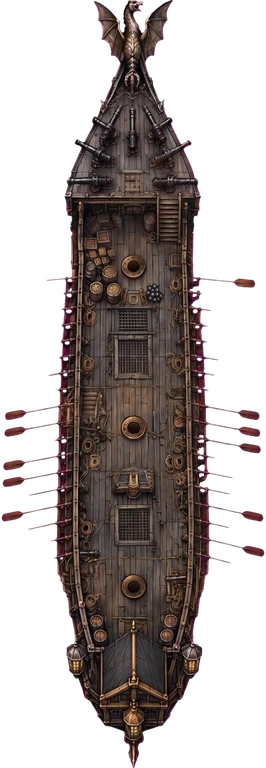
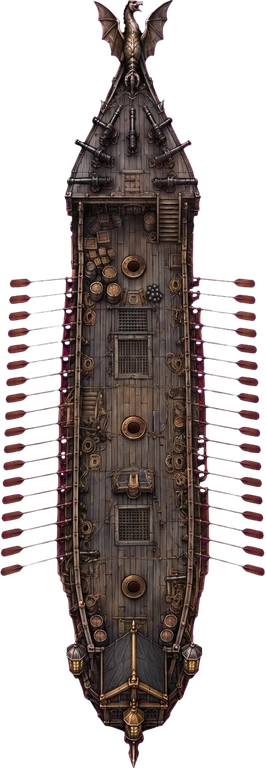
Mastless hulls: whale_mother (75 of 107); boats and oars that stand apart from the hull kept where the ship has them (wyvern_galleass gets her oars back)

diff --git a/shared/src/data/maststeps.ts b/shared/src/data/maststeps.ts
@@ -1,4 +1,4 @@
 // Written by tools/art/ships_nomast.py and tools/art/masts.py (2026-11-16): where each mastless hull's mast steps are
 // (fractions of its picture's height from the top, on its centreline), and each mast picture's pivot (its round top).
-export const MAST_STEPS: Record<string, number[]> = {"albatross_xebec":[0.1445,0.3242,0.6771,0.8958],"baltimore_clipper":[0.3607,0.6263],"barque":[0.457,0.6055],"black_corsair":[0.3776,0.5208,0.668],"brig":[0.3815,0.5404],"brigantine":[0.3737,0.8333],"buss":[0.2773,0.4674,0.6745],"cargo_frigate":[0.405,0.541,0.741],"carrack":[0.3086,0.4961,0.5951],"cog":[0.5508],"collier":[0.3086,0.4701,0.6549],"coral_hulk":[0.3411,0.4544,0.7018],"corvette":[0.263,0.3594,0.5547],"crimson_tide":[0.2448,0.3945,0.5052],"cursed_frigate":[0.2852,0.5286,0.7318],"cutter":[0.582],"dragon_junk":[0.3438,0.474,0.5885],"east_indiaman":[0.3906,0.4987,0.651],"felucca":[0.418,0.64],"fireship":[0.3503,0.5247],"fishing_ketch":[0.3255,0.7057],"floating_bazaar":[0.319,0.4635,0.5977],"floating_fortress":[0.2669,0.5521],"fluyt":[0.2826,0.4961],"flying_fish":[0.366,0.506],"frigate":[0.289,0.48,0.69],"galiot":[0.308,0.52],"galleon":[0.2982,0.5143,0.7396],"ghost_clipper":[0.357,0.473,0.57],"ghost_ship":[0.32,0.5,0.647],"golden_carrack":[0.4505,0.5352],"great_galleon":[0.353,0.5,0.6237],"gunboat":[0.5833],"harpoon_whaler":[0.3346,0.5234,0.7318],"hoy":[0.4922],"hulk":[0.3411,0.4987],"iron_ram":[0.388,0.5195],"kraken_hunter":[0.4583],"ledger_galleon":[0.2109,0.3633,0.5456],"leviathan_ark":[0.23,0.451,0.5612,0.731],"lugger":[0.331,0.507,0.65],"man_o_war":[0.349,0.4987,0.6758],"menagerie":[0.3086,0.457,0.681],"mermaid_grace":[0.3854,0.4557,0.6406],"pearl_schooner":[0.4674,0.6784],"pink":[0.39,0.5208,0.5977],"pinnace":[0.391,0.609],"plate_galleon":[0.2656,0.3867,0.5534,0.7057],"razee":[0.4557],"rum_runner":[0.4974],"schooner":[0.2253,0.444],"sea_hawk":[0.309,0.435,0.731],"shark_cutter":[0.3841,0.5221],"ship_of_the_line":[0.237,0.3659,0.5326],"silk_junk":[0.401,0.5208,0.6888],"silver_arrow":[0.3229,0.457,0.5456,0.6602],"sloop":[0.5951],"smugglers_lugger":[0.4844],"snow":[0.388,0.6732],"spice_dhow":[0.3294,0.6172],"storeship":[0.3438,0.474,0.599],"storm_petrel":[0.4141,0.4922,0.5625],"storm_reaver":[0.4935],"sun_galleon":[0.4961],"tartane":[0.4219,0.582],"tea_clipper":[0.3477,0.4844,0.6471,0.7917],"thunderer":[0.2904,0.4557,0.5846],"topsail_schooner":[0.4049,0.6133],"treasure_fluyt":[0.4844],"treasure_junk":[0.337,0.3984,0.4753,0.5456],"turtle_barge":[0.4753],"viper":[0.5404],"war_galley":[0.3451,0.5964],"wind_dancer":[0.4544],"wyvern_galleass":[0.3464,0.556,0.7643],"xebec":[0.3099,0.5169,0.7383]};
+export const MAST_STEPS: Record<string, number[]> = {"albatross_xebec":[0.1445,0.3242,0.6771,0.8958],"baltimore_clipper":[0.3607,0.6263],"barque":[0.457,0.6055],"black_corsair":[0.3776,0.5208,0.668],"brig":[0.3815,0.5404],"brigantine":[0.3737,0.8333],"buss":[0.2773,0.4674,0.6745],"cargo_frigate":[0.405,0.541,0.741],"carrack":[0.3086,0.4961,0.5951],"cog":[0.5508],"collier":[0.3086,0.4701,0.6549],"coral_hulk":[0.3411,0.4544,0.7018],"corvette":[0.263,0.3594,0.5547],"crimson_tide":[0.2448,0.3945,0.5052],"cursed_frigate":[0.2852,0.5286,0.7318],"cutter":[0.582],"dragon_junk":[0.3438,0.474,0.5885],"east_indiaman":[0.3906,0.4987,0.651],"felucca":[0.418,0.64],"fireship":[0.3503,0.5247],"fishing_ketch":[0.3255,0.7057],"floating_bazaar":[0.319,0.4635,0.5977],"floating_fortress":[0.2669,0.5521],"fluyt":[0.2826,0.4961],"flying_fish":[0.366,0.506],"frigate":[0.289,0.48,0.69],"galiot":[0.308,0.52],"galleon":[0.2982,0.5143,0.7396],"ghost_clipper":[0.357,0.473,0.57],"ghost_ship":[0.32,0.5,0.647],"golden_carrack":[0.4505,0.5352],"great_galleon":[0.353,0.5,0.6237],"gunboat":[0.5833],"harpoon_whaler":[0.3346,0.5234,0.7318],"hoy":[0.4922],"hulk":[0.3411,0.4987],"iron_ram":[0.388,0.5195],"kraken_hunter":[0.4583],"ledger_galleon":[0.2109,0.3633,0.5456],"leviathan_ark":[0.23,0.451,0.5612,0.731],"lugger":[0.331,0.507,0.65],"man_o_war":[0.349,0.4987,0.6758],"menagerie":[0.3086,0.457,0.681],"mermaid_grace":[0.3854,0.4557,0.6406],"pearl_schooner":[0.4674,0.6784],"pink":[0.39,0.5208,0.5977],"pinnace":[0.391,0.609],"plate_galleon":[0.2656,0.3867,0.5534,0.7057],"razee":[0.4557],"rum_runner":[0.4974],"schooner":[0.2253,0.444],"sea_hawk":[0.309,0.435,0.731],"shark_cutter":[0.3841,0.5221],"ship_of_the_line":[0.237,0.3659,0.5326],"silk_junk":[0.401,0.5208,0.6888],"silver_arrow":[0.3229,0.457,0.5456,0.6602],"sloop":[0.5951],"smugglers_lugger":[0.4844],"snow":[0.388,0.6732],"spice_dhow":[0.3294,0.6172],"storeship":[0.3438,0.474,0.599],"storm_petrel":[0.4141,0.4922,0.5625],"storm_reaver":[0.4935],"sun_galleon":[0.4961],"tartane":[0.4219,0.582],"tea_clipper":[0.3477,0.4844,0.6471,0.7917],"thunderer":[0.2904,0.4557,0.5846],"topsail_schooner":[0.4049,0.6133],"treasure_fluyt":[0.4844],"treasure_junk":[0.337,0.3984,0.4753,0.5456],"turtle_barge":[0.4753],"viper":[0.5404],"war_galley":[0.3451,0.5964],"whale_mother":[0.2969,0.4193,0.556,0.7266],"wind_dancer":[0.4544],"wyvern_galleass":[0.3464,0.556,0.7643],"xebec":[0.3099,0.5169,0.7383]};
 export const MAST_PIVOT: Record<string, number> = {"square_full":0.2397,"square_reef":0.3503,"square_furl":0.4419,"square_bare":0.4348};

diff --git a/tools/art/ships_nomast.py b/tools/art/ships_nomast.py
@@ -48,8 +48,12 @@ def fetch(name: str, stem: str, cdn: str) -> str:
     return p
 
 
-def central_only(a: np.ndarray) -> np.ndarray:
-    """Only the vessel in the picture's middle: the model sometimes paints stray neighbouring hulls at the sides."""
+# ships whose painting has parts standing apart from the hull (boats on davits, oars): only edge-cut strays go
+KEEP_PARTS = {'whale_mother', 'wyvern_galleass', 'hoy'}
+
+
+def hull_only(a: np.ndarray) -> np.ndarray:
+    """Only the piece in the picture's middle (stray sail scraps and neighbouring hulls out)."""
     solid = a[:, :, 3] > 128
     lab, n = ndimage.label(solid)
     if n <= 1:
@@ -62,6 +66,24 @@ def central_only(a: np.ndarray) -> np.ndarray:
     keep = ndimage.binary_dilation(lab == ids[np.argmax(cnt)], iterations=3)
     out = a.copy()
     out[:, :, 3] = np.where(keep, a[:, :, 3], 0)
+    return out
+
+
+def central_only(a: np.ndarray) -> np.ndarray:
+    """Stray neighbouring hulls out: the model sometimes paints pieces of other vessels cut by the picture's side edges.
+    Everything else stays (boats on davits, oars, flippers that stand apart from the hull), and so does the vessel in
+    the middle even if it touches an edge."""
+    solid = a[:, :, 3] > 128
+    lab, n = ndimage.label(solid)
+    if n <= 1:
+        return a
+    h, w = solid.shape
+    mid = set(np.unique(lab[h // 4:3 * h // 4, w // 2 - w // 40:w // 2 + w // 40]).tolist()) - {0}
+    edge = set(np.unique(np.concatenate([lab[:, :3].ravel(), lab[:, -3:].ravel()])).tolist()) - {0} - mid
+    if not edge:
+        return a
+    out = a.copy()
+    out[:, :, 3] = np.where(np.isin(lab, list(edge)), 0, a[:, :, 3])
     return out
 
 
@@ -110,7 +132,8 @@ def main(pairs: dict[str, str]) -> None:
         src = fetch(name, stem, m['cdn'])
         old = m['assets'].get(f'ship.{name}')
         ow, oh = Image.open(os.path.join(ROOT, 'assets', old['local'])).size if old else (320, 768)
-        im = Image.fromarray(central_only(key_magenta(np.array(Image.open(src).convert('RGBA')))))
+        keyed = key_magenta(np.array(Image.open(src).convert('RGBA')))
+        im = Image.fromarray(central_only(keyed) if name in KEEP_PARTS else hull_only(keyed))
         # the painting keeps its source's frame (1024×1536 with the old sprite fitted in it): that fitted box cut back
         W, H = im.size
         s = min(1000 / ow, 1500 / oh)
